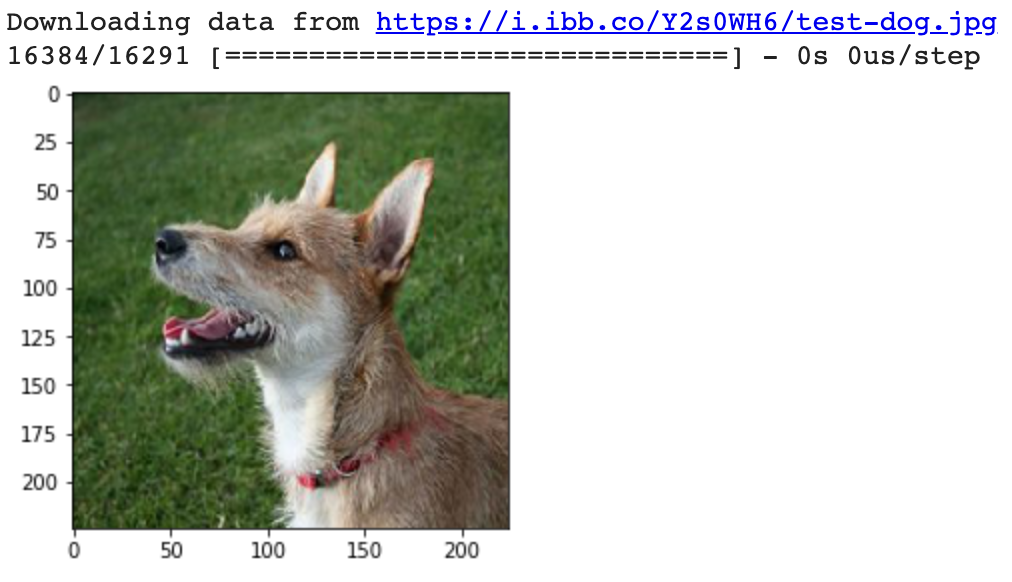
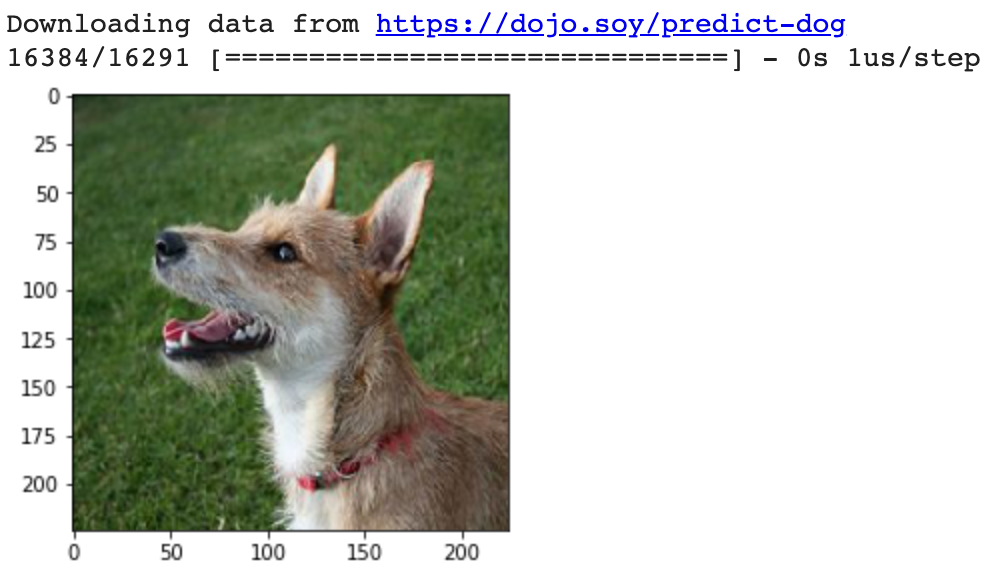
Edits following team feedback

Changed region(s): [[0.0, 0.1491, 0.5152, 0.9842], [0.0, 0.0, 1.0, 0.1193]]

diff --git a/en/step_4.md b/en/step_4.md
@@ -35,7 +35,7 @@ Add this line to the end of the `predict_image` function:
 
 --- /task ---
 
-If you print out the results the model has given back, you'll see that it's just lot of numbers. This is a long list of how likely the model thinks the image is to belong to every class it has been trained to recognise. In the case of the VGG16 model you're using here, that's 1000 classes!
+If you print out the results the model has given back, you'll see that it's just lot of numbers. This is a long list of how likely the model thinks the image is to belong to every class it has been trained to recognise. In the case of the VGG16 model you're using here, that's 1000 classes! The model is splitting 100% across all of its guesses, with the ones it's more confident about getting large percentages and those it's less confident about getting little or nothing.
 
 ![A small sample of the list of numbers the model returns.](images/numeric_predictions.png)
 
@@ -65,4 +65,6 @@ Now run the code and see what your program predicts!
 
 ![A numbered list of fifteen items, mostly dog breeds, each followed by a percentage. Number thirteen is different — 'tennis_ball 1.60%'. A picture of a small dog appears below the list.](images/finished_project.png)
 
-Notice how most of the predictions are sensible — different kinds of dog. However, look at number 13 — 'tennis ball' — that's a bit different! Why might the model think that's what it's seeing? It's probably because of the way models are trained: they're shown images to learn from, and then given other images to test their learning. The image you've asked it to identify here is a dog and some grass. Do you think it's likely some pictures of dogs might show them playing with balls? Or that pictures of balls might show them on grass? You can see how the classifier might get confused!
+Number 1 is the guess the model thinks is most likely to be right, number 2 is its next best guess, and so on. You can see how the percentages associated with the guesses shrink as you move down the list. To see more of the predictions, and try to find the point where they hit 0%, change the value of `top` in your call to `decode_predictions` and re-run the program.
+
+Also, notice how most of the predictions are sensible — different kinds of dog.  However, look at number 13 — 'tennis ball' — that's a bit different! Why might the model think that's what it's seeing? It's probably because of the way models are trained: they're shown images to learn from, and then given other images to test their learning. The image you've asked it to identify here is a dog and some grass. Do you think it's likely some pictures of dogs might show them playing with balls? Or that pictures of balls might show them on grass? You can see how the classifier might get confused!

diff --git a/en/step_2.md b/en/step_2.md
@@ -1,19 +1,19 @@
 ## Get started with Google Colab
 
-Machine learning needs a lot of data, and a lot of computer processing power. Since most personal computers are going to be slow to train a model, and most internet connections might be slow to download large enough amounts of data to train it with, we're going to use Google Colab — an online tool for writing and running machine learning code with the Tensorflow library. This will let us use Google's much more powerful computers, and faster internet connection.
+Machine learning needs a lot of data, and a lot of computer processing power. Since most personal computers are going to be slow to train a model, and most internet connections might be slow to download large enough amounts of data to train it with, we're going to use Google Colab — an online tool for writing and running machine learning code with the TensorFlow library. This will let us use Google's much more powerful computers, and faster internet connection.
 
 --- task ---
 
 Make sure you have your Google account username and password.
 
 
-If you don't have an account, you may be able to use a parent's account, [they may be able to create one for you](https://support.google.com/families/answer/7103338) or, if you're old enough to do so under your country's laws, you can [create your own account](https://accounts.google.com/signup).
+If you don't have an account, [a parent may be able to create one for you](https://support.google.com/families/answer/7103338){:target="_blank"} or, if you're old enough to do so under your country's laws, you can [create your own account](https://accounts.google.com/signup){:target="_blank"}.
 
 --- /task ---
 
 --- task ---
 
-Open the [starter](https://colab.research.google.com/drive/12KHBw8tn3s9NkcXXUK2MdhC9hLpHAxLs?usp=sharing) for this project in a new tab in your browser. 
+Open the [starter](https://colab.research.google.com/drive/12KHBw8tn3s9NkcXXUK2MdhC9hLpHAxLs?usp=sharing){:target="_blank"} for this project in a new tab in your browser. 
 
 --- /task ---
 
@@ -29,7 +29,7 @@ Before you start changing anything, make sure you save the notebook to your driv
 
 --- /task ---
 
-The code and text in the notebook is broken up into **cells**. Each code cell can be run separately, but you're not going to need to do that in this project. You're just going to need to run them all, in order.
+The code and text in the notebook is broken up into **cells**. Each code cell can be run separately, but you're not going to need to do that in this project. You're just going to need to run them all, in order. Don't worry about what they're doing just yet — they don't really do anything without your code — this is just to make sure that you're able to run code in your notebook for when you'll need to later.
 
 --- task ---
 

diff --git a/en/step_3.md b/en/step_3.md
@@ -1,7 +1,7 @@
 ## Load your model and image
-The first thing you need to do is bring in the model you're going to use from the `tensorflow` library. The model you'll be using is called VGG16 and it's very quick to get it into your program.
+The first thing you need to do is bring in the model you're going to use from the `tensorflow` library. If you remember from [the start of this project](1) the model is the set of rules the computer follows to complete a task — in this case a set of rules for deciding which object appears in an image. We call this decision classification, and we call each possible answer, in this case each type of object, a class. The model you'll be using is called VGG16. VGG16 is trained to recognise a wide variety of objects, and it's very quick to get into your program.
 
---- task ---
+
 
 In the first empty code cell, create a model variable and load the VGG16 model from TensorFlow into that variable.
 
@@ -35,7 +35,7 @@ Notice that, at the same time as loading the image, you're tellling TensorFlow t
 In the third empty cell, add a call to `predict_image` and pass it the URL to the test image.
 
 ```python
-predict_image('https://i.ibb.co/Y2s0WH6/test-dog.jpg')
+predict_image('https://dojo.soy/predict-dog')
 ```
 
 --- /task ---
@@ -57,4 +57,4 @@ Now run all the code by going to the `Runtime` menu and choosing `Run all`.
 You'll need to wait a few seconds for things to load, but you should see your image displayed in the notebook.
 --- /task ---
 
-![The output of the code: Text reading 'Downloading data from https://i.ibb.co/Y2s0WH6/test-dog.jpg 16384/16291 [==============================] - 0s 0us/step' followed by an image of a dog with numbered axies for the width and height of the image.](images/load_image.png)
+![The output of the code: Text reading 'Downloading data from https://dojo.soy/predict-dog 16384/16291 [==============================] - 0s 1us/step' followed by an image of a dog with numbered axies for the width and height of the image.](images/load_image.png)

diff --git a/en/step_1.md b/en/step_1.md
@@ -7,7 +7,7 @@
 One of the most famous examples of this can tell you whether a picture contains a cat, or a dog. The computer can do this because it has been shown thousands, of examples of what cats and dogs look like. From these, it builds a **model** — a set of rules for how to decide that an image contains a dog or a cat. It's important to note an image classification model trained only on cats and dogs will *always* guess that something is either a cat or a dog. These models can't recognise things they haven't been trained to recognise, and they can't decide that none of those things is in the image they're asked to classify.
 
 ### What you will make
-You will create a Python function for testing a computer's recognition of an object by supplying a photograph of that object and getting back the computer's guess at what it is. This will be a useful tool for you in future projects, to test the models you create and to get the results of others' models when using them as part of an application.
+You will create a Python function for testing a computer's recognition of an object by supplying a photograph of that object and getting back the computer's guess at what it is. This will be a useful tool for you in future projects, to test the models you create and to get the results of others' models when using them as part of an application. You will use Google Colab — an online tool for writing and running machine learning programs — to create this project.
 
 ![The complete projec: A numbered list of fifteen items, mostly dog breeds, each followed by a percentage. Number thirteen is different — 'tennis_ball 1.60%'. A picture of a small dog appears below the list.](images/finished_project.png)
 
